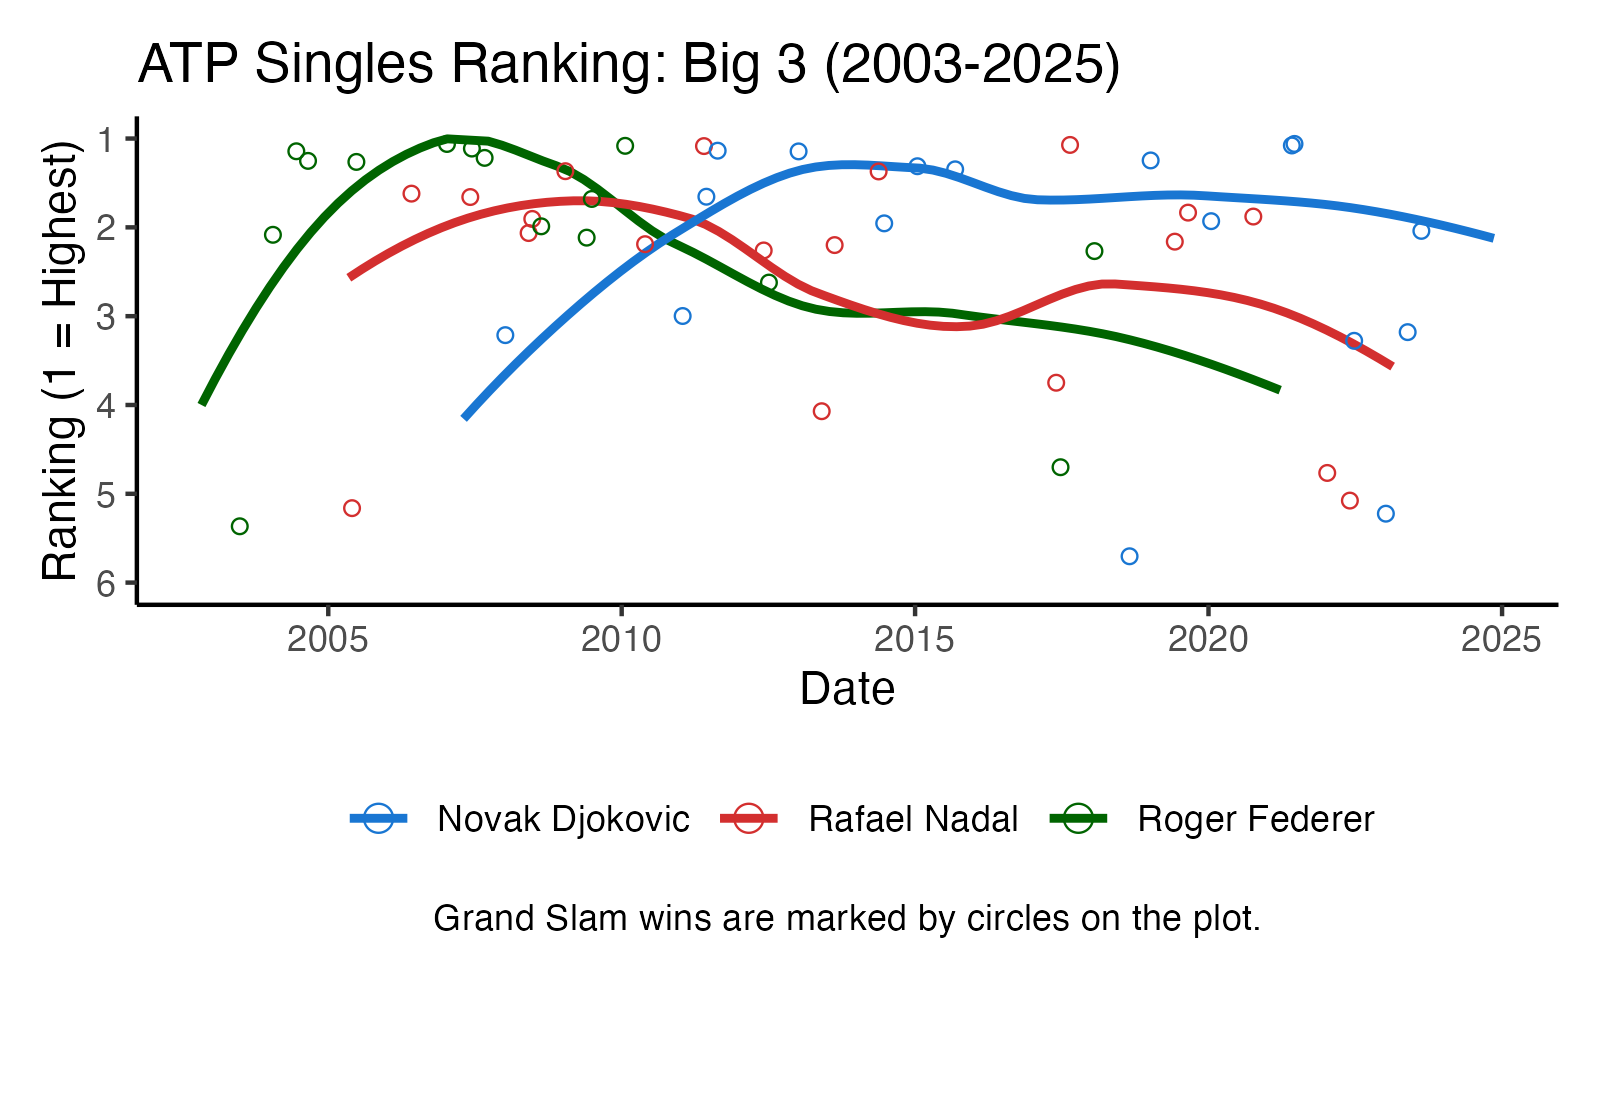
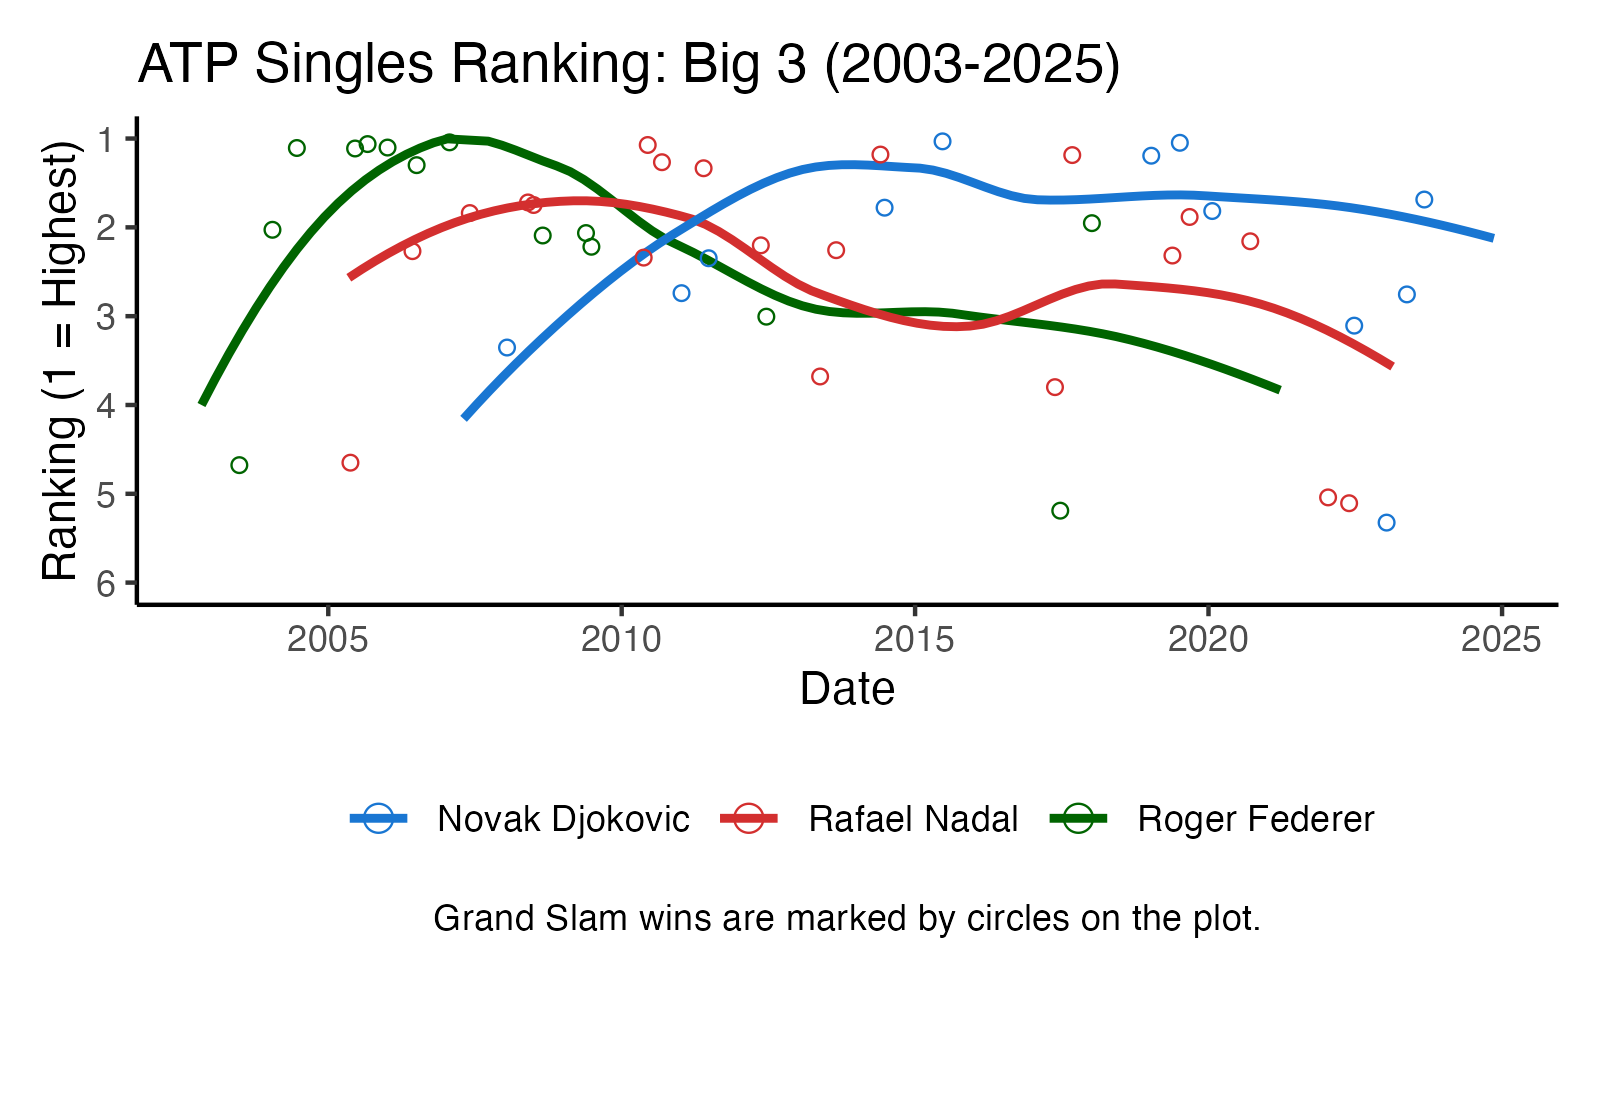
update branch

diff --git a/docs/pages/team_test_page.html b/docs/pages/team_test_page.html
@@ -7,7 +7,7 @@
 <meta name="viewport" content="width=device-width, initial-scale=1.0, user-scalable=yes">
 
 
-<title>Page example – Tennis</title>
+<title>Page example – Website Title</title>
 <style>
 code{white-space: pre-wrap;}
 span.smallcaps{font-variant: small-caps;}
@@ -72,14 +72,10 @@ pre > code.sourceCode > span > a:first-child::before { text-decoration: underlin
 <script src="../site_libs/quarto-html/tippy.umd.min.js"></script>
 <script src="../site_libs/quarto-html/anchor.min.js"></script>
 <link href="../site_libs/quarto-html/tippy.css" rel="stylesheet">
-<link href="../site_libs/quarto-html/quarto-syntax-highlighting-7b89279ff1a6dce999919e0e67d4d9ec.css" rel="stylesheet" class="quarto-color-scheme" id="quarto-text-highlighting-styles">
-<link href="../site_libs/quarto-html/quarto-syntax-highlighting-dark-707d8167ce6003fca903bfe2be84ab7f.css" rel="stylesheet" class="quarto-color-scheme quarto-color-alternate" id="quarto-text-highlighting-styles">
-<link href="../site_libs/quarto-html/quarto-syntax-highlighting-7b89279ff1a6dce999919e0e67d4d9ec.css" rel="stylesheet" class="quarto-color-scheme-extra" id="quarto-text-highlighting-styles">
+<link href="../site_libs/quarto-html/quarto-syntax-highlighting-7b89279ff1a6dce999919e0e67d4d9ec.css" rel="stylesheet" id="quarto-text-highlighting-styles">
 <script src="../site_libs/bootstrap/bootstrap.min.js"></script>
 <link href="../site_libs/bootstrap/bootstrap-icons.css" rel="stylesheet">
-<link href="../site_libs/bootstrap/bootstrap-44143a46e71f508f1bd7cd85f41bb88e.min.css" rel="stylesheet" append-hash="true" class="quarto-color-scheme" id="quarto-bootstrap" data-mode="light">
-<link href="../site_libs/bootstrap/bootstrap-dark-dc19ffffcdf7b93d201d40a972928c45.min.css" rel="stylesheet" append-hash="true" class="quarto-color-scheme quarto-color-alternate" id="quarto-bootstrap" data-mode="dark">
-<link href="../site_libs/bootstrap/bootstrap-44143a46e71f508f1bd7cd85f41bb88e.min.css" rel="stylesheet" append-hash="true" class="quarto-color-scheme-extra" id="quarto-bootstrap" data-mode="light">
+<link href="../site_libs/bootstrap/bootstrap-e9de9367ed308154efb102fa675a7f83.min.css" rel="stylesheet" append-hash="true" id="quarto-bootstrap" data-mode="light">
 <script id="quarto-search-options" type="application/json">{
   "location": "navbar",
   "copy-button": false,
@@ -107,173 +103,12 @@ pre > code.sourceCode > span > a:first-child::before { text-decoration: underlin
     "search-label": "Search"
   }
 }</script>
+<script src="https://kit.fontawesome.com/78ddb093ea.js" crossorigin="anonymous"></script>
 
 
 </head>
 
-<body class="nav-fixed quarto-light"><script id="quarto-html-before-body" type="application/javascript">
-    const toggleBodyColorMode = (bsSheetEl) => {
-      const mode = bsSheetEl.getAttribute("data-mode");
-      const bodyEl = window.document.querySelector("body");
-      if (mode === "dark") {
-        bodyEl.classList.add("quarto-dark");
-        bodyEl.classList.remove("quarto-light");
-      } else {
-        bodyEl.classList.add("quarto-light");
-        bodyEl.classList.remove("quarto-dark");
-      }
-    }
-    const toggleBodyColorPrimary = () => {
-      const bsSheetEl = window.document.querySelector("link#quarto-bootstrap:not([rel=disabled-stylesheet])");
-      if (bsSheetEl) {
-        toggleBodyColorMode(bsSheetEl);
-      }
-    }
-    const setColorSchemeToggle = (alternate) => {
-      const toggles = window.document.querySelectorAll('.quarto-color-scheme-toggle');
-      for (let i=0; i < toggles.length; i++) {
-        const toggle = toggles[i];
-        if (toggle) {
-          if (alternate) {
-            toggle.classList.add("alternate");
-          } else {
-            toggle.classList.remove("alternate");
-          }
-        }
-      }
-    };
-    const toggleColorMode = (alternate) => {
-      // Switch the stylesheets
-      const primaryStylesheets = window.document.querySelectorAll('link.quarto-color-scheme:not(.quarto-color-alternate)');
-      const alternateStylesheets = window.document.querySelectorAll('link.quarto-color-scheme.quarto-color-alternate');
-      manageTransitions('#quarto-margin-sidebar .nav-link', false);
-      if (alternate) {
-        // note: dark is layered on light, we don't disable primary!
-        enableStylesheet(alternateStylesheets);
-        for (const sheetNode of alternateStylesheets) {
-          if (sheetNode.id === "quarto-bootstrap") {
-            toggleBodyColorMode(sheetNode);
-          }
-        }
-      } else {
-        disableStylesheet(alternateStylesheets);
-        enableStylesheet(primaryStylesheets)
-        toggleBodyColorPrimary();
-      }
-      manageTransitions('#quarto-margin-sidebar .nav-link', true);
-      // Switch the toggles
-      setColorSchemeToggle(alternate)
-      // Hack to workaround the fact that safari doesn't
-      // properly recolor the scrollbar when toggling (#1455)
-      if (navigator.userAgent.indexOf('Safari') > 0 && navigator.userAgent.indexOf('Chrome') == -1) {
-        manageTransitions("body", false);
-        window.scrollTo(0, 1);
-        setTimeout(() => {
-          window.scrollTo(0, 0);
-          manageTransitions("body", true);
-        }, 40);
-      }
-    }
-    const disableStylesheet = (stylesheets) => {
-      for (let i=0; i < stylesheets.length; i++) {
-        const stylesheet = stylesheets[i];
-        stylesheet.rel = 'disabled-stylesheet';
-      }
-    }
-    const enableStylesheet = (stylesheets) => {
-      for (let i=0; i < stylesheets.length; i++) {
-        const stylesheet = stylesheets[i];
-        if(stylesheet.rel !== 'stylesheet') { // for Chrome, which will still FOUC without this check
-          stylesheet.rel = 'stylesheet';
-        }
-      }
-    }
-    const manageTransitions = (selector, allowTransitions) => {
-      const els = window.document.querySelectorAll(selector);
-      for (let i=0; i < els.length; i++) {
-        const el = els[i];
-        if (allowTransitions) {
-          el.classList.remove('notransition');
-        } else {
-          el.classList.add('notransition');
-        }
-      }
-    }
-    const isFileUrl = () => {
-      return window.location.protocol === 'file:';
-    }
-    const hasAlternateSentinel = () => {
-      let styleSentinel = getColorSchemeSentinel();
-      if (styleSentinel !== null) {
-        return styleSentinel === "alternate";
-      } else {
-        return false;
-      }
-    }
-    const setStyleSentinel = (alternate) => {
-      const value = alternate ? "alternate" : "default";
-      if (!isFileUrl()) {
-        window.localStorage.setItem("quarto-color-scheme", value);
-      } else {
-        localAlternateSentinel = value;
-      }
-    }
-    const getColorSchemeSentinel = () => {
-      if (!isFileUrl()) {
-        const storageValue = window.localStorage.getItem("quarto-color-scheme");
-        return storageValue != null ? storageValue : localAlternateSentinel;
-      } else {
-        return localAlternateSentinel;
-      }
-    }
-    const toggleGiscusIfUsed = (isAlternate, darkModeDefault) => {
-      const baseTheme = document.querySelector('#giscus-base-theme')?.value ?? 'light';
-      const alternateTheme = document.querySelector('#giscus-alt-theme')?.value ?? 'dark';
-      let newTheme = '';
-      if(authorPrefersDark) {
-        newTheme = isAlternate ? baseTheme : alternateTheme;
-      } else {
-        newTheme = isAlternate ? alternateTheme : baseTheme;
-      }
-      const changeGiscusTheme = () => {
-        // From: https://github.com/giscus/giscus/issues/336
-        const sendMessage = (message) => {
-          const iframe = document.querySelector('iframe.giscus-frame');
-          if (!iframe) return;
-          iframe.contentWindow.postMessage({ giscus: message }, 'https://giscus.app');
-        }
-        sendMessage({
-          setConfig: {
-            theme: newTheme
-          }
-        });
-      }
-      const isGiscussLoaded = window.document.querySelector('iframe.giscus-frame') !== null;
-      if (isGiscussLoaded) {
-        changeGiscusTheme();
-      }
-    };
-    const authorPrefersDark = false;
-    const darkModeDefault = authorPrefersDark;
-      document.querySelector('link#quarto-text-highlighting-styles.quarto-color-scheme-extra').rel = 'disabled-stylesheet';
-      document.querySelector('link#quarto-bootstrap.quarto-color-scheme-extra').rel = 'disabled-stylesheet';
-    let localAlternateSentinel = darkModeDefault ? 'alternate' : 'default';
-    // Dark / light mode switch
-    window.quartoToggleColorScheme = () => {
-      // Read the current dark / light value
-      let toAlternate = !hasAlternateSentinel();
-      toggleColorMode(toAlternate);
-      setStyleSentinel(toAlternate);
-      toggleGiscusIfUsed(toAlternate, darkModeDefault);
-      window.dispatchEvent(new Event('resize'));
-    };
-    // Switch to dark mode if need be
-    if (hasAlternateSentinel()) {
-      toggleColorMode(true);
-    } else {
-      toggleColorMode(false);
-    }
-  </script>
+<body class="nav-fixed quarto-light">
 
 <div id="quarto-search-results"></div>
   <header id="quarto-header" class="headroom fixed-top">
@@ -283,7 +118,7 @@ pre > code.sourceCode > span > a:first-child::before { text-decoration: underlin
     <a href="../index.html" class="navbar-brand navbar-brand-logo">
     </a>
     <a class="navbar-brand" href="../index.html">
-    <span class="navbar-title">Tennis</span>
+    <span class="navbar-title">Website Title</span>
     </a>
   </div>
             <div id="quarto-search" class="" title="Search"></div>
@@ -300,43 +135,47 @@ pre > code.sourceCode > span > a:first-child::before { text-decoration: underlin
     <a class="nav-link" href="../about.html"> 
 <span class="menu-text">About Website Title</span></a>
   </li>  
+  <li class="nav-item">
+    <a class="nav-link" href="../pages/my_first_page.qmd"> 
+<span class="menu-text">First Page Text</span></a>
+  </li>  
   <li class="nav-item dropdown ">
-    <a class="nav-link dropdown-toggle" href="#" id="nav-menu-the-big-3" role="link" data-bs-toggle="dropdown" aria-expanded="false">
- <span class="menu-text"><em>The Big 3</em></span>
+    <a class="nav-link dropdown-toggle" href="#" id="nav-menu-drop-tab-text" role="link" data-bs-toggle="dropdown" aria-expanded="false">
+ <span class="menu-text">Drop Tab Text</span>
     </a>
-    <ul class="dropdown-menu" aria-labelledby="nav-menu-the-big-3">    
+    <ul class="dropdown-menu" aria-labelledby="nav-menu-drop-tab-text">    
         <li>
-    <a class="dropdown-item" href="../pages/page1.html">
- <span class="dropdown-text">ATP Singles Ranking</span></a>
+    <a class="dropdown-item" href="../pages/my_second_page.qmd">
+ <span class="dropdown-text">Text for first option</span></a>
   </li>  
         <li>
-    <a class="dropdown-item" href="../pages/page2.html">
- <span class="dropdown-text"><strong>Major vs Non-major Wins</strong></span></a>
+    <a class="dropdown-item" href="../pages/my_third_page.html">
+ <span class="dropdown-text">Text for second option</span></a>
   </li>  
         <li>
-    <a class="dropdown-item" href="../pages/hw06eisenmanl.html">
- <span class="dropdown-text"><strong>Limitations of Visualization</strong></span></a>
-  </li>  
-        <li>
-    <a class="dropdown-item" href="../pages/hw05eisenmanl_final.html">
- <span class="dropdown-text"><strong>More Visualizations</strong></span></a>
+    <a class="dropdown-item" href="../pages/team_test_page.html">
+ <span class="dropdown-text">Exercise Test Page</span></a>
   </li>  
     </ul>
   </li>
+  <li class="nav-item">
+    <a class="nav-link" href="../about.html"> 
+<span class="menu-text">About Page Text</span></a>
+  </li>  
 </ul>
             <ul class="navbar-nav navbar-nav-scroll ms-auto">
-  <li class="nav-item">
-    <a class="nav-link" href="../index.html"> 
-<span class="menu-text">Home</span></a>
-  </li>  
   <li class="nav-item">
     <a class="nav-link" href="../about.html"> 
 <span class="menu-text">About Website Title</span></a>
   </li>  
+  <li class="nav-item compact">
+    <a class="nav-link" href="https://github.com/username"> <i class="bi bi-github" role="img">
+</i> 
+<span class="menu-text"></span></a>
+  </li>  
 </ul>
           </div> <!-- /navcollapse -->
             <div class="quarto-navbar-tools">
-  <a href="" class="quarto-color-scheme-toggle quarto-navigation-tool  px-1" onclick="window.quartoToggleColorScheme(); return false;" title="Toggle dark mode"><i class="bi"></i></a>
 </div>
       </div> <!-- /container-fluid -->
     </nav>
@@ -364,7 +203,6 @@ pre > code.sourceCode > span > a:first-child::before { text-decoration: underlin
     </div>
 <!-- main -->
 <main class="content" id="quarto-document-content">
-
 
 <header id="title-block-header" class="quarto-title-block default">
 <div class="quarto-title">
@@ -443,19 +281,6 @@ pre > code.sourceCode > span > a:first-child::before { text-decoration: underlin
 </main> <!-- /main -->
 <script id="quarto-html-after-body" type="application/javascript">
   window.document.addEventListener("DOMContentLoaded", function (event) {
-    // Ensure there is a toggle, if there isn't float one in the top right
-    if (window.document.querySelector('.quarto-color-scheme-toggle') === null) {
-      const a = window.document.createElement('a');
-      a.classList.add('top-right');
-      a.classList.add('quarto-color-scheme-toggle');
-      a.href = "";
-      a.onclick = function() { try { window.quartoToggleColorScheme(); } catch {} return false; };
-      const i = window.document.createElement("i");
-      i.classList.add('bi');
-      a.appendChild(i);
-      window.document.body.appendChild(a);
-    }
-    setColorSchemeToggle(hasAlternateSentinel())
     const icon = "";
     const anchorJS = new window.AnchorJS();
     anchorJS.options = {
@@ -855,6 +680,19 @@ pre > code.sourceCode > span > a:first-child::before { text-decoration: underlin
   });
   </script>
 </div> <!-- /content -->
+<footer class="footer">
+  <div class="nav-footer">
+    <div class="nav-footer-left">
+<p>made with <a href="https://quarto.org">Quarto</a></p>
+</div>   
+    <div class="nav-footer-center">
+<p><a href="myemail@mydomain.com">contact me</a></p>
+</div>
+    <div class="nav-footer-right">
+<p><a href="https://github.com/username/repositoryname">GitHub Repo</a></p>
+</div>
+  </div>
+</footer>
 
 
 
